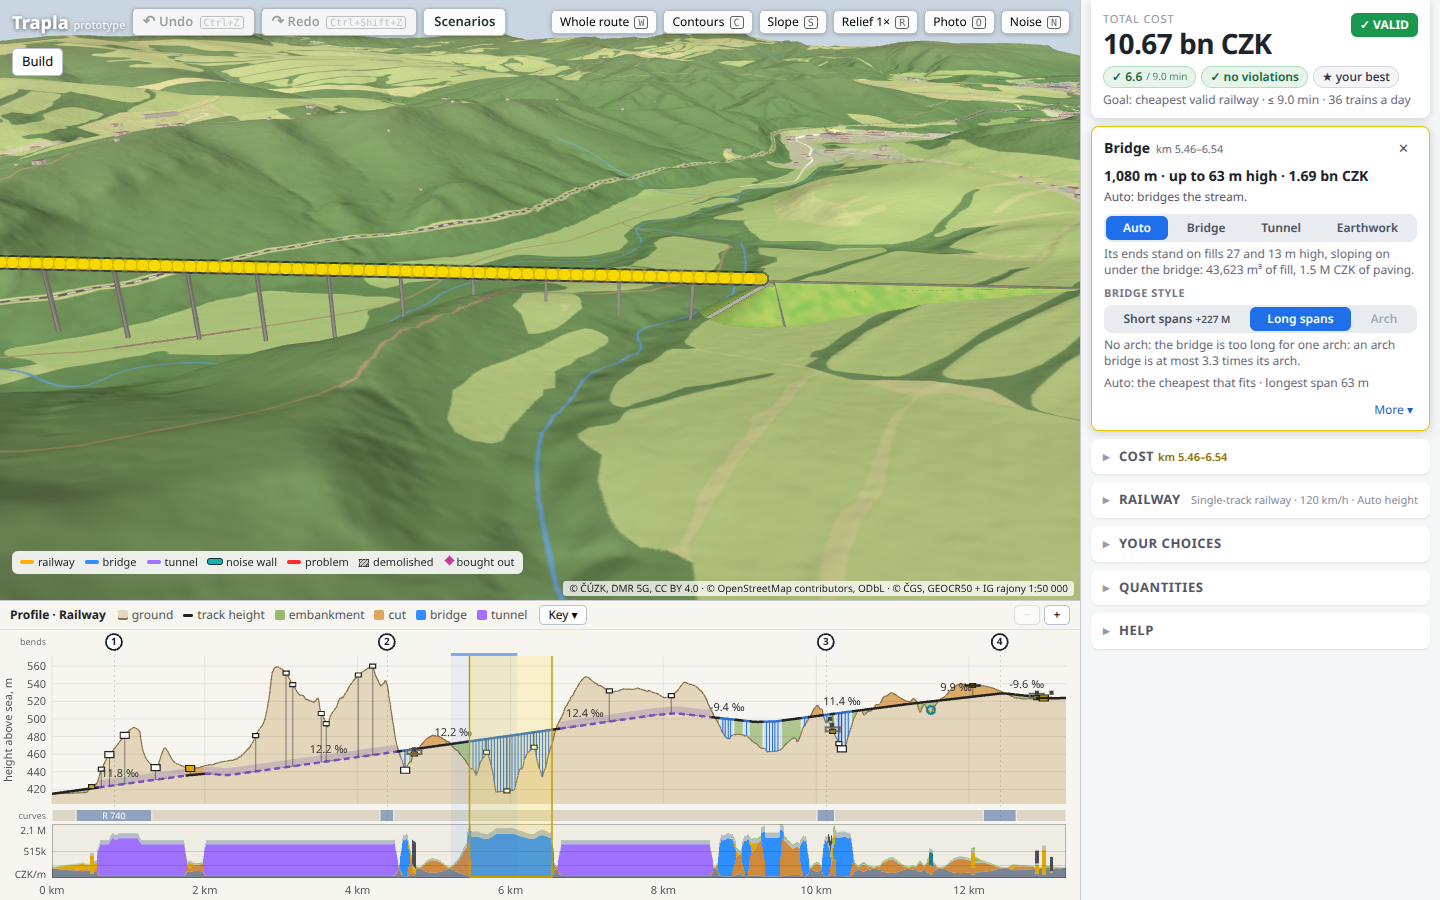
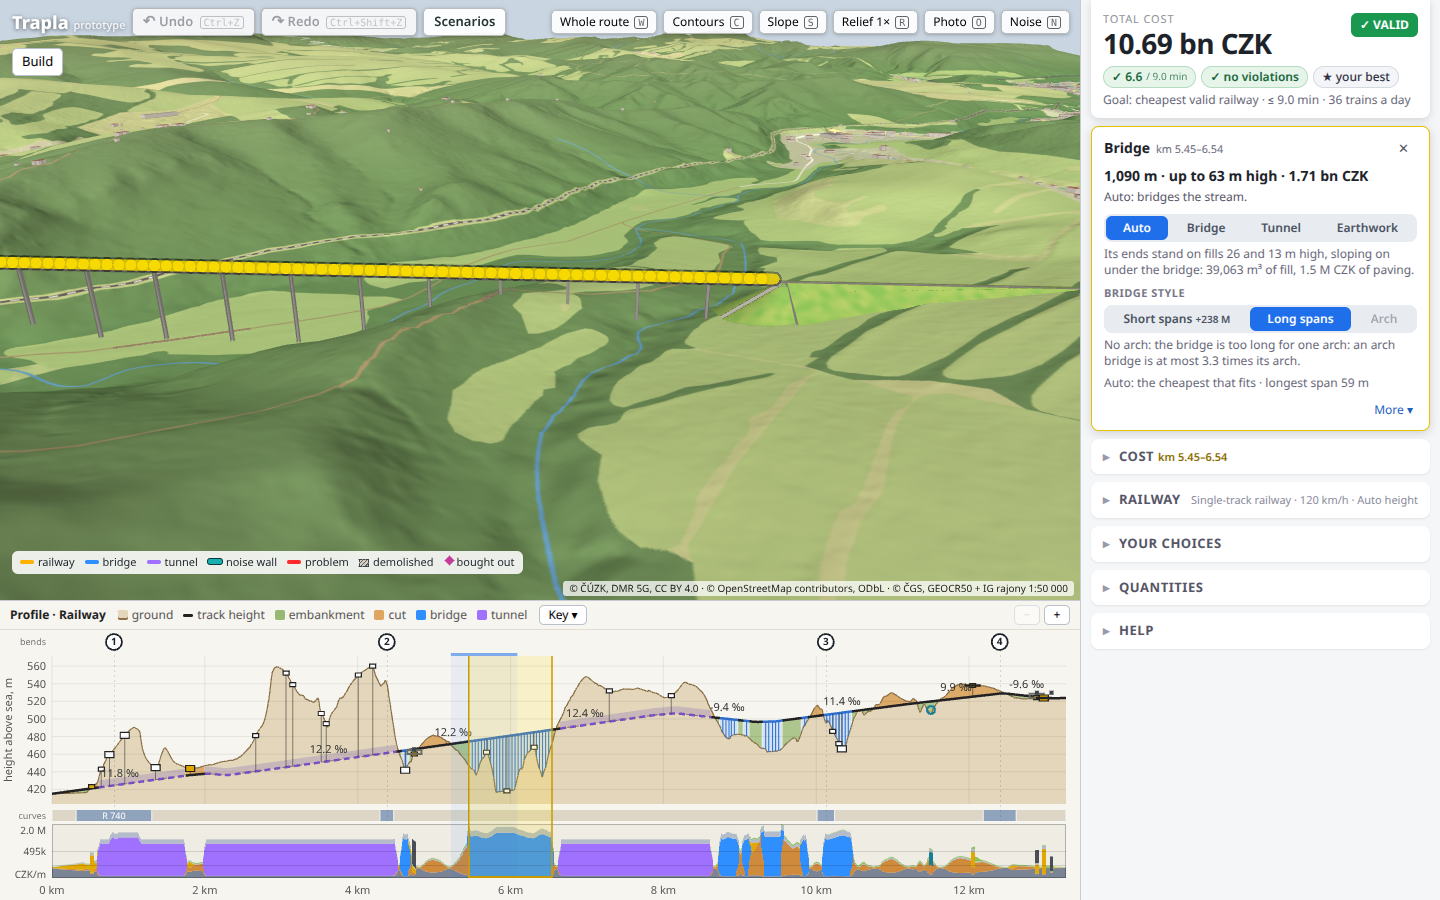
Shots 390–393 retaken on the final rule (Královec km 10.27 now under one bridge)

diff --git a/README.md b/README.md
@@ -432,9 +432,9 @@ was 284 M dearer)](docs/screenshots/290-d11-one-bend-70-keeps-90-geometry.png),
 [D3-0302: no 62 m cut and no 41 / 47 m fills, one 1,678 m bridge](docs/screenshots/299-d3-0302-no-deep-cut-one-long-bridge.png),
 [a D11 line whose cut would be 67 m deep: Auto's tunnel, the open cut's price on its Earthwork button](docs/screenshots/300-d11-deep-cut-tunnel-open-cut-price.png),
 [a bridge end whose fill would cover the road below it: a wall down to the ground](docs/screenshots/301-d11-bridge-end-wall-beside-the-road-below.png).
-Bridge ends under one rule (cost model 42, `node scripts/abutment-ends-shots.mjs`): [the Královec railway's end at km
-10.27, once a 28 m wall, on its cone](docs/screenshots/390-rail-kralovec-km-10-27-end-on-a-cone.png), [its fill at km
-5.61–5.70, once boxed in by walls of 25 and 16 m, part of one bridge](docs/screenshots/391-rail-kralovec-km-5-6-one-bridge-no-boxed-fill.png),
+Bridge ends under one rule (cost model 42, `node scripts/abutment-ends-shots.mjs`): [the Královec railway at km 10.27, once
+a 28 m wall, under one bridge with the one before it](docs/screenshots/390-rail-kralovec-km-10-27-under-one-bridge.png), [its fill
+at km 5.61–5.70, once boxed in by walls of 25 and 16 m, part of one bridge](docs/screenshots/391-rail-kralovec-km-5-6-one-bridge-no-boxed-fill.png),
 [D11 km 2.42, once an 11.4 m wall beside road III/3012, on a cone](docs/screenshots/392-d11-km-2-42-end-on-a-cone-beside-the-road.png),
 [a closed end on an 8.5 m fill, its wall's height and price on the bridge card](docs/screenshots/393-d11-km-3-49-wall-within-10-m-billed.png).
 [The Nová Paka starter along the mapped bypass: its nine curves at their mapped radii, 1.22 bn
